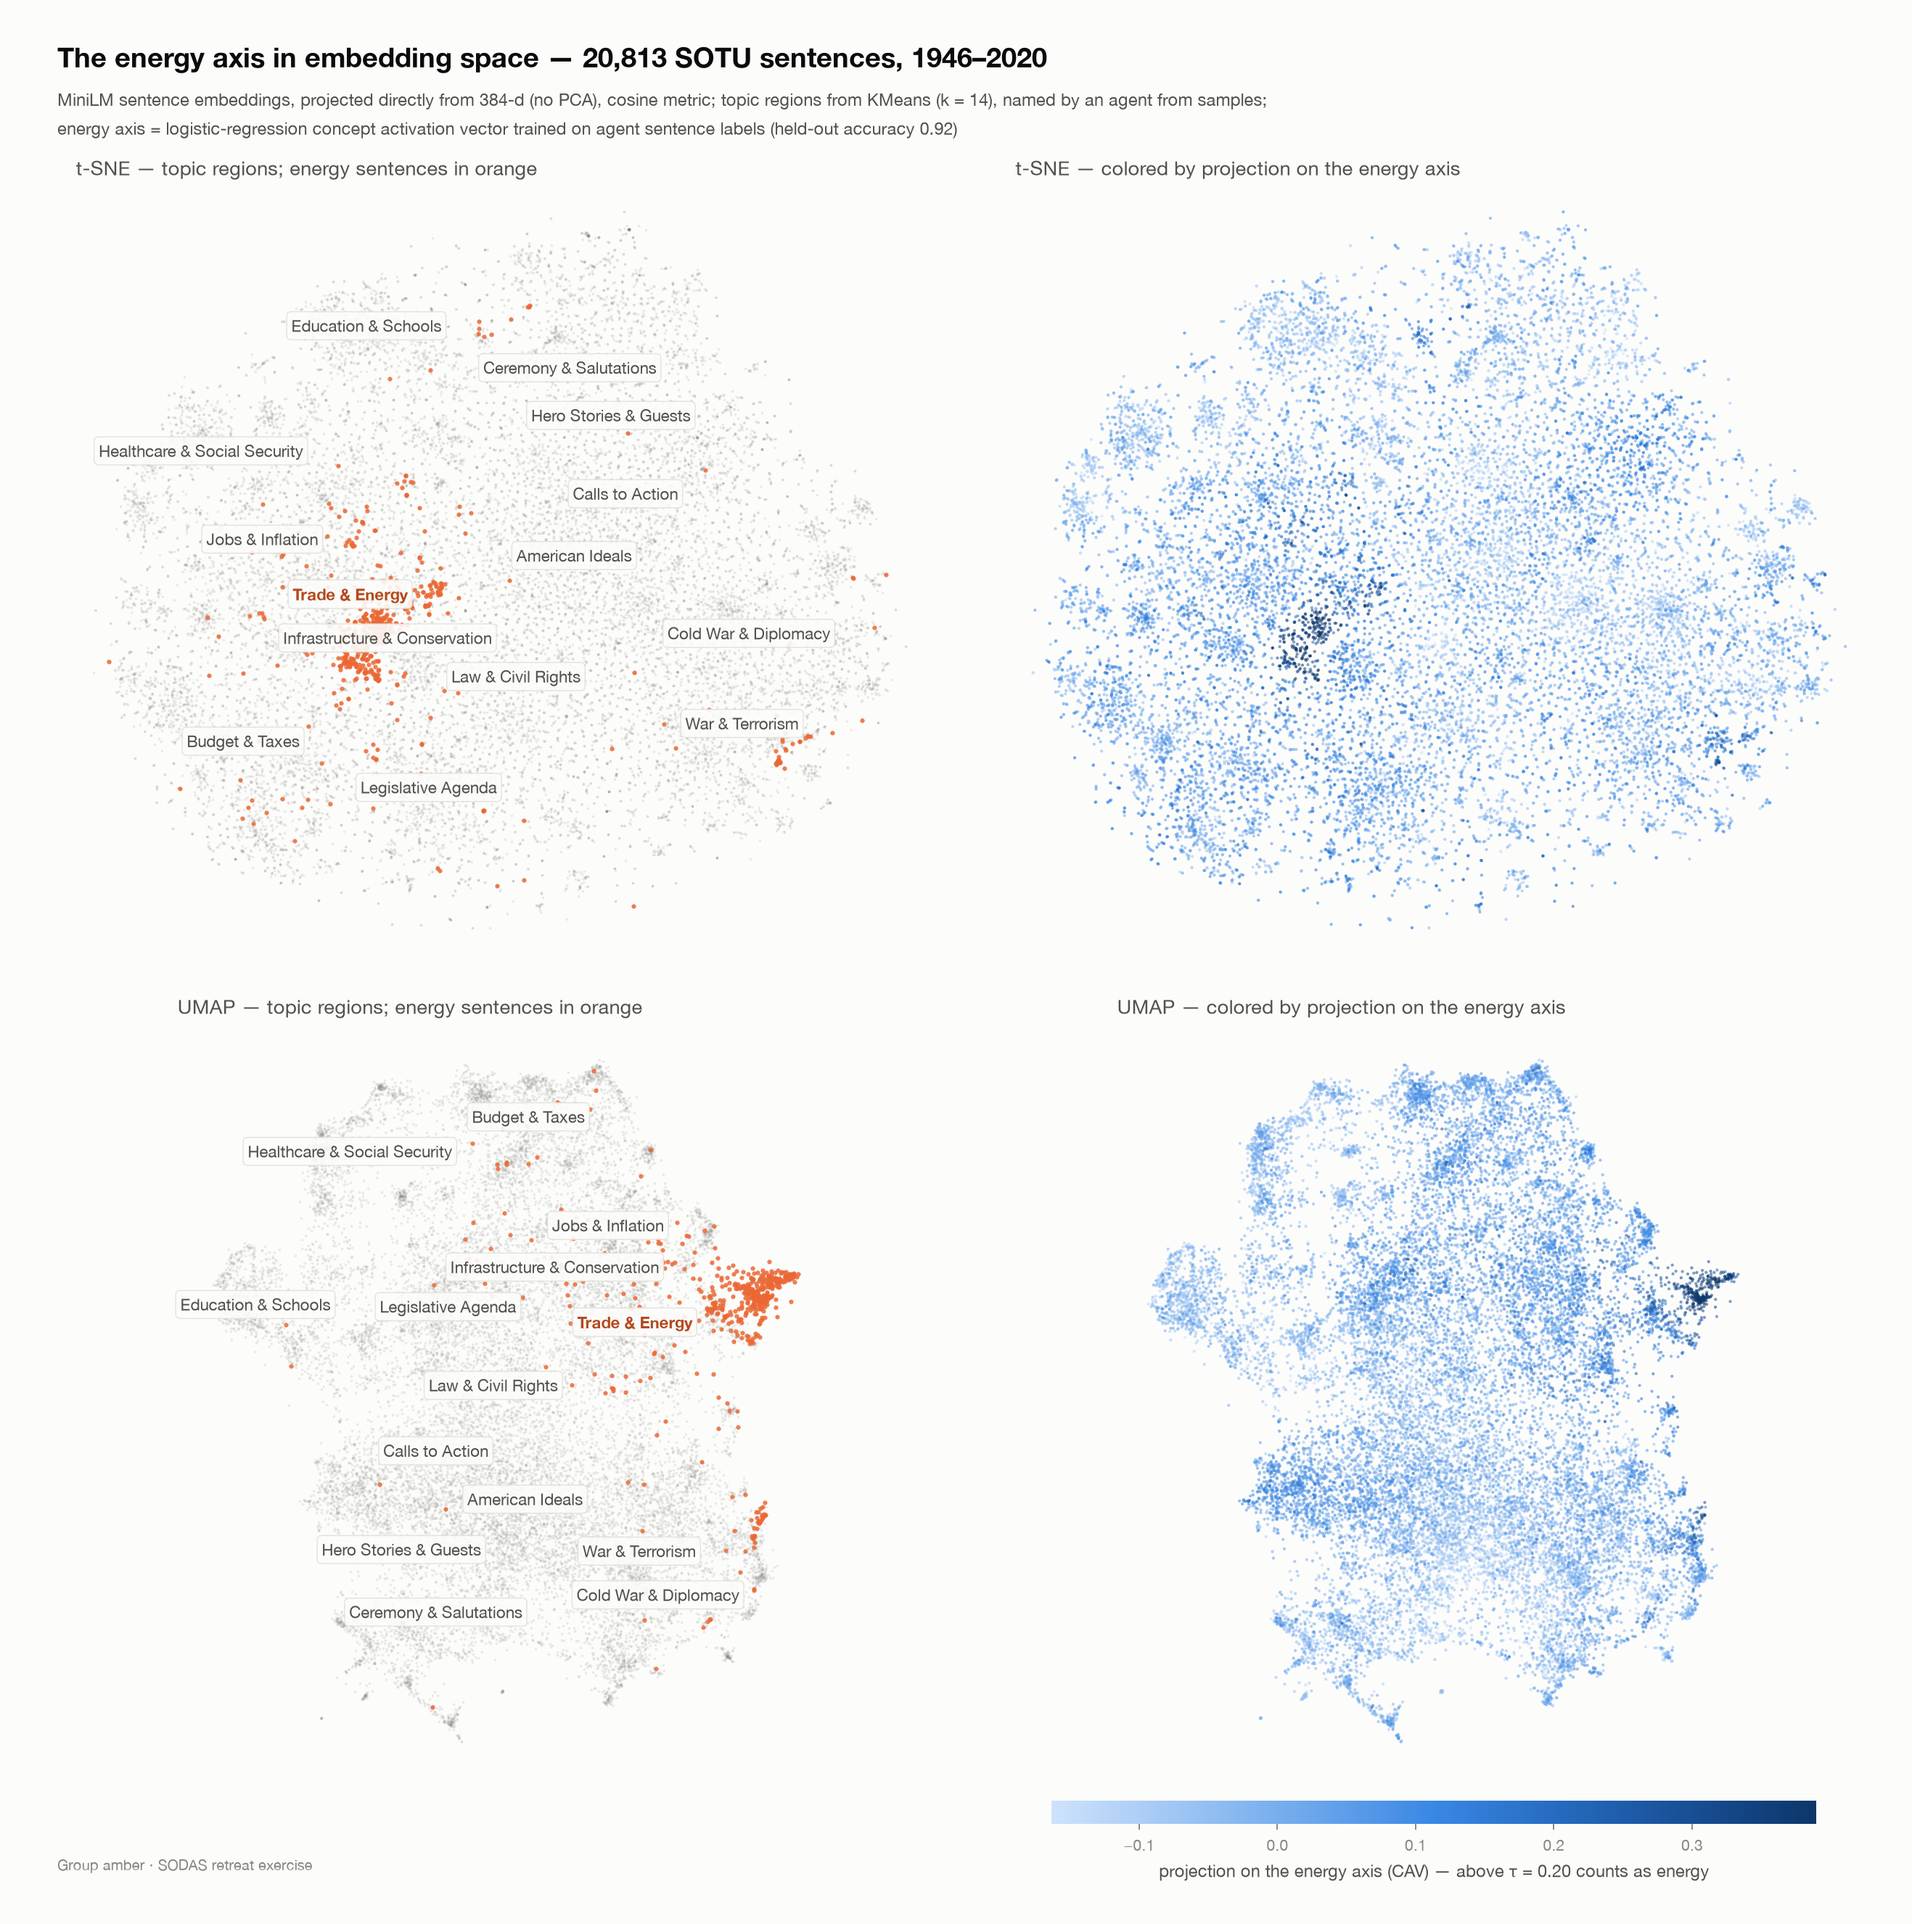
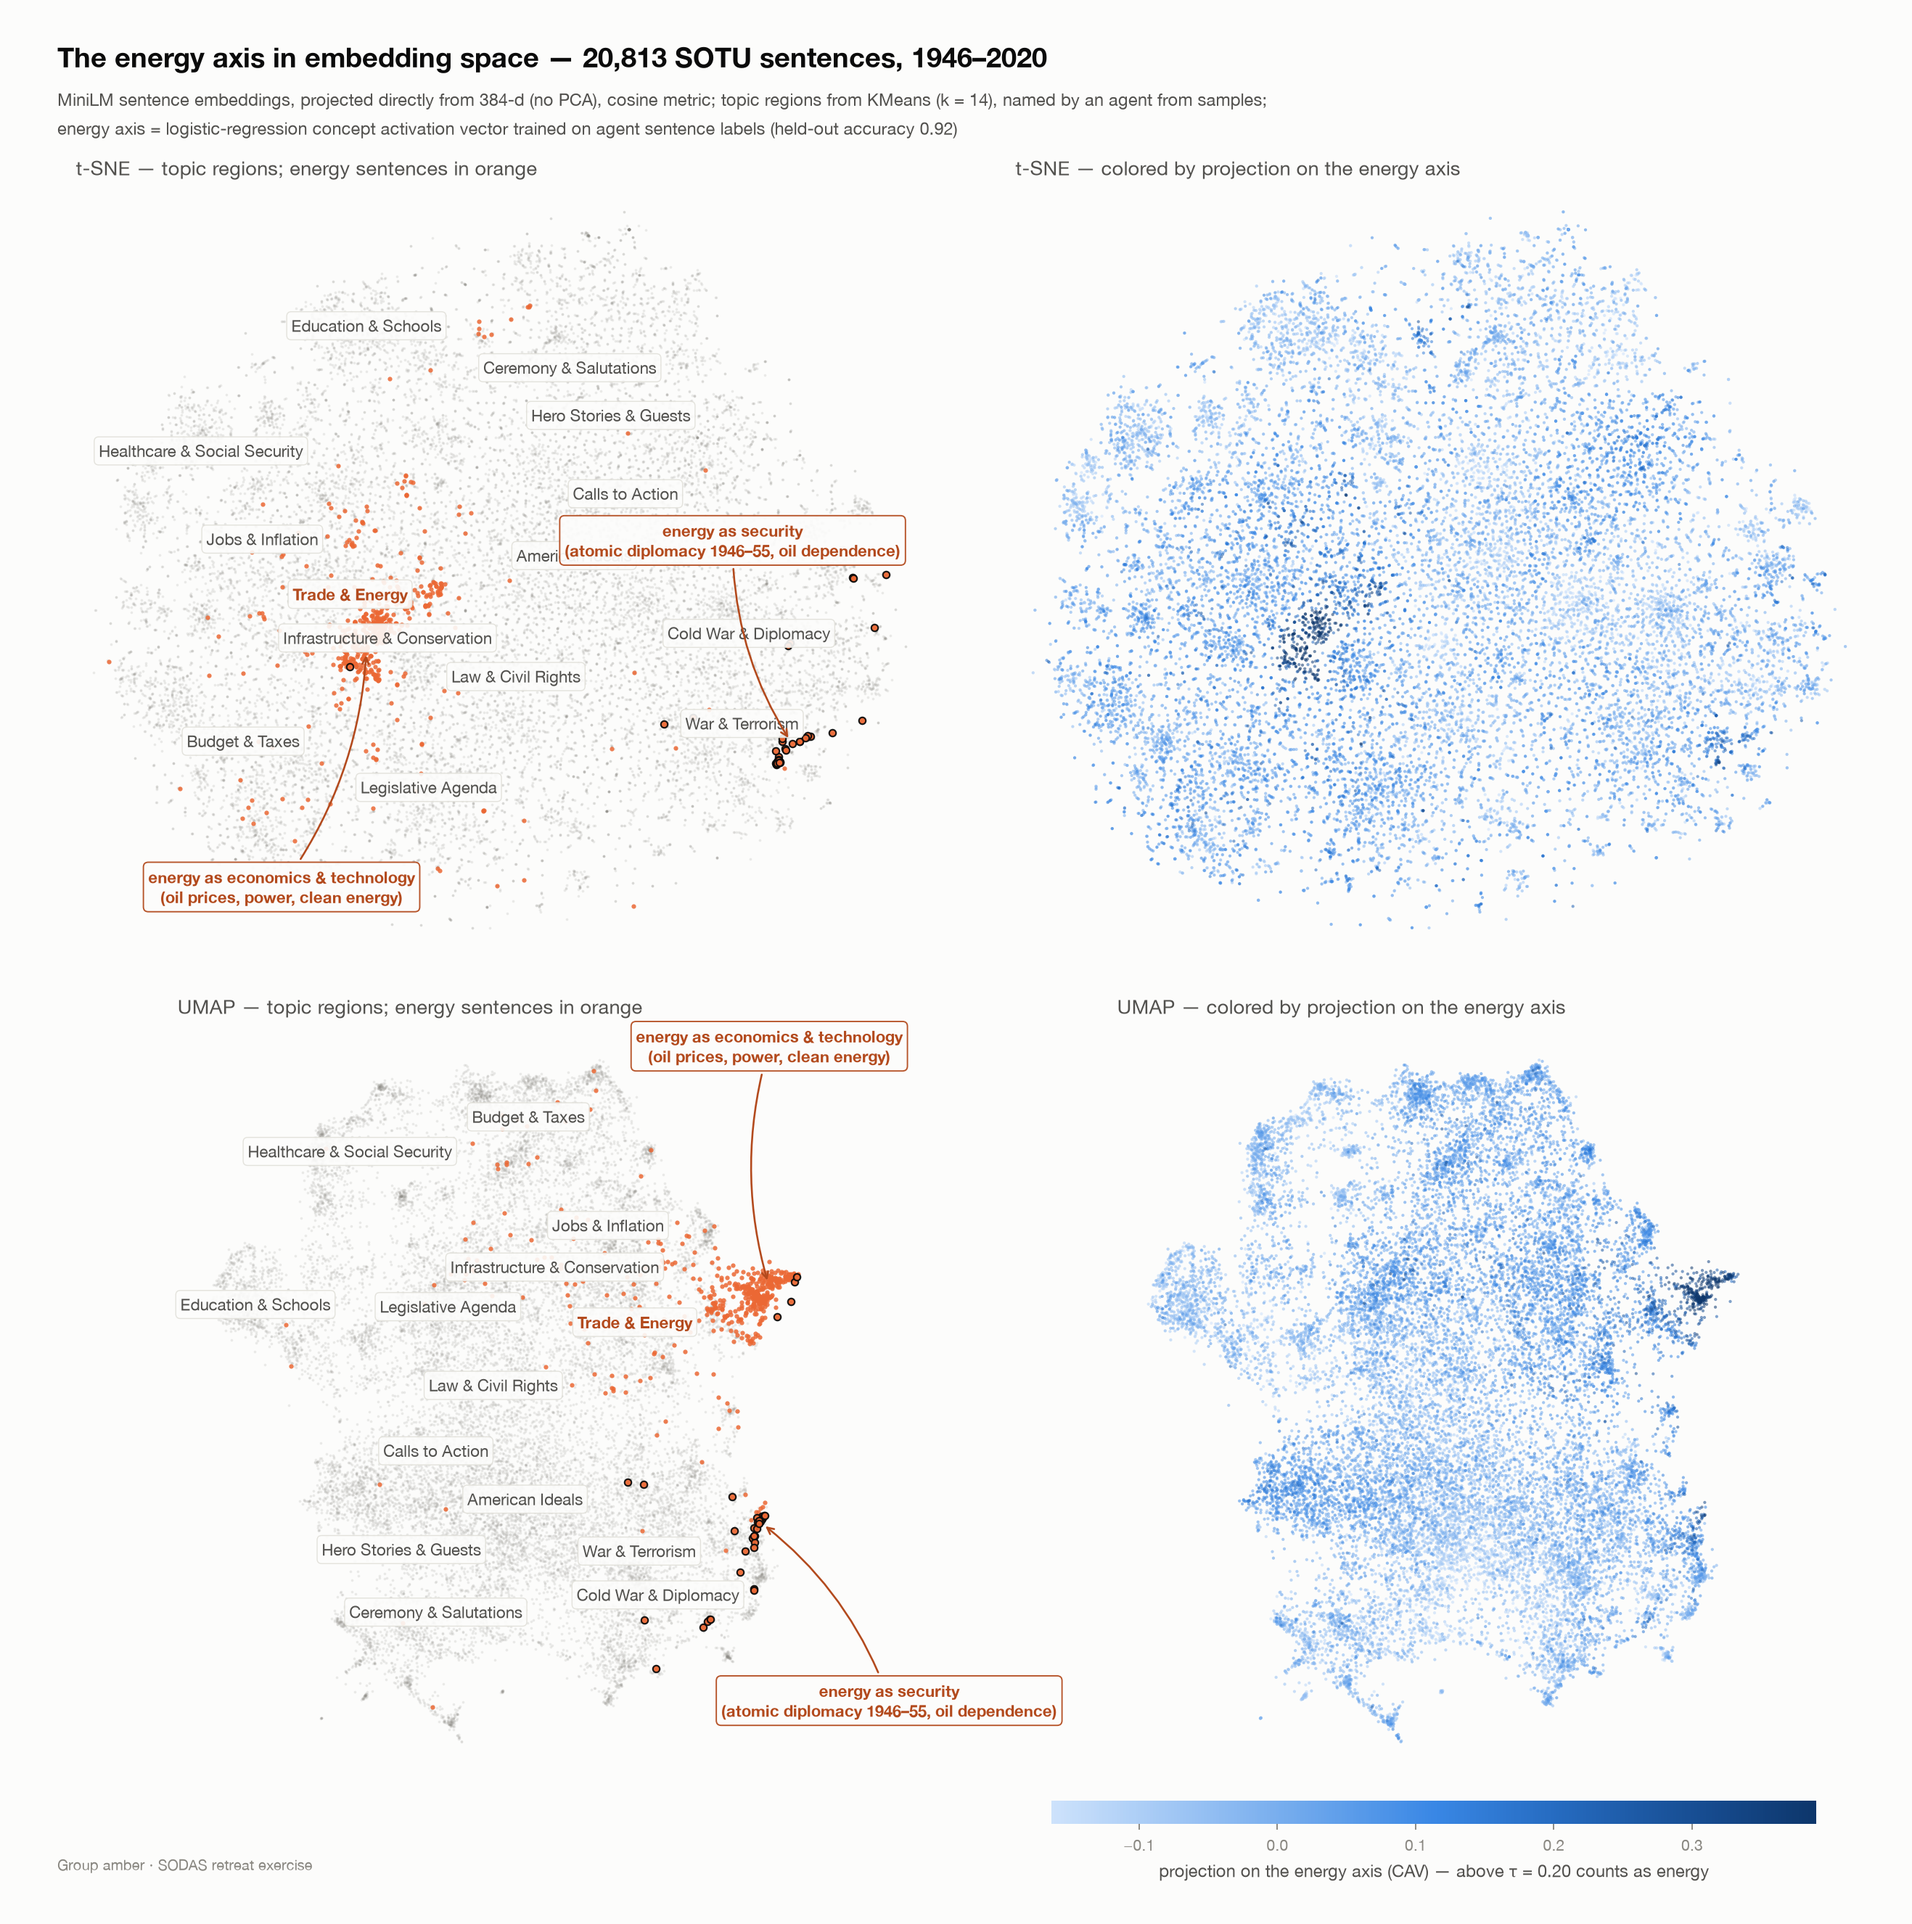
Group amber: annotate the two energy sub-clusters (economics vs security)

diff --git a/groups/amber/code/plot_maps.py b/groups/amber/code/plot_maps.py
@@ -67,8 +67,29 @@ for row, (mname, XY) in enumerate(maps):
         ax.set_xlim(xlim[0] - padx, xlim[1] + padx); ax.set_ylim(ylim[0] - pady, ylim[1] + pady)
         ax.set_aspect("equal")
 
+    sec = en & np.isin(clus, [2, 3])   # energy sentences inside Cold War / War regions
+    eco = en & ~np.isin(clus, [2, 3])
     axA.scatter(XY[~en, 0], XY[~en, 1], s=2.4, c=MUTED, alpha=0.16, lw=0, rasterized=True)
-    axA.scatter(XY[en, 0], XY[en, 1], s=7, c=S2, alpha=0.85, lw=0)
+    axA.scatter(XY[eco, 0], XY[eco, 1], s=7, c=S2, alpha=0.85, lw=0)
+    axA.scatter(XY[sec, 0], XY[sec, 1], s=16, c=S2, alpha=0.95, lw=0.9, edgecolors=INK)
+
+    def densest(pts):
+        d = np.linalg.norm(pts[:, None, :] - pts[None, :, :], axis=2)
+        r = 0.05 * (pts[:, 0].max() - pts[:, 0].min() + 1e-9)
+        return pts[np.argmax((d < max(r, 1e-9)).sum(1))]
+
+    def callout(ax, anchor, label, off):
+        sx = ax.get_xlim()[1] - ax.get_xlim()[0]; sy = ax.get_ylim()[1] - ax.get_ylim()[0]
+        ax.annotate(label, anchor, (anchor[0] + off[0] * sx, anchor[1] + off[1] * sy),
+                    fontsize=9.5, fontweight="bold", color="#b34a1d", ha="center", zorder=7,
+                    arrowprops=dict(arrowstyle="->", color="#b34a1d", lw=1.1,
+                                    shrinkB=4, connectionstyle="arc3,rad=0.15"),
+                    bbox=dict(facecolor=SURFACE, edgecolor="#b34a1d", lw=0.8,
+                              alpha=0.94, boxstyle="round,pad=0.3"))
+    offs = [((-0.10, -0.34), (-0.07, 0.25)),  # t-SNE: (eco), (sec)
+            ((0.00, 0.30), (0.20, -0.26))]    # UMAP
+    callout(axA, densest(XY[eco]), "energy as economics & technology\n(oil prices, power, clean energy)", offs[row][0])
+    callout(axA, densest(XY[sec]), "energy as security\n(atomic diplomacy 1946–55, oil dependence)", offs[row][1])
     cents = {k: (np.median(XY[clus == k, 0]), np.median(XY[clus == k, 1])) for k in NAMES}
     span_x = xlim[1] - xlim[0]
     placed = nudge(cents, min_dx=0.30 * span_x, min_dy=0.055 * (ylim[1] - ylim[0]))
